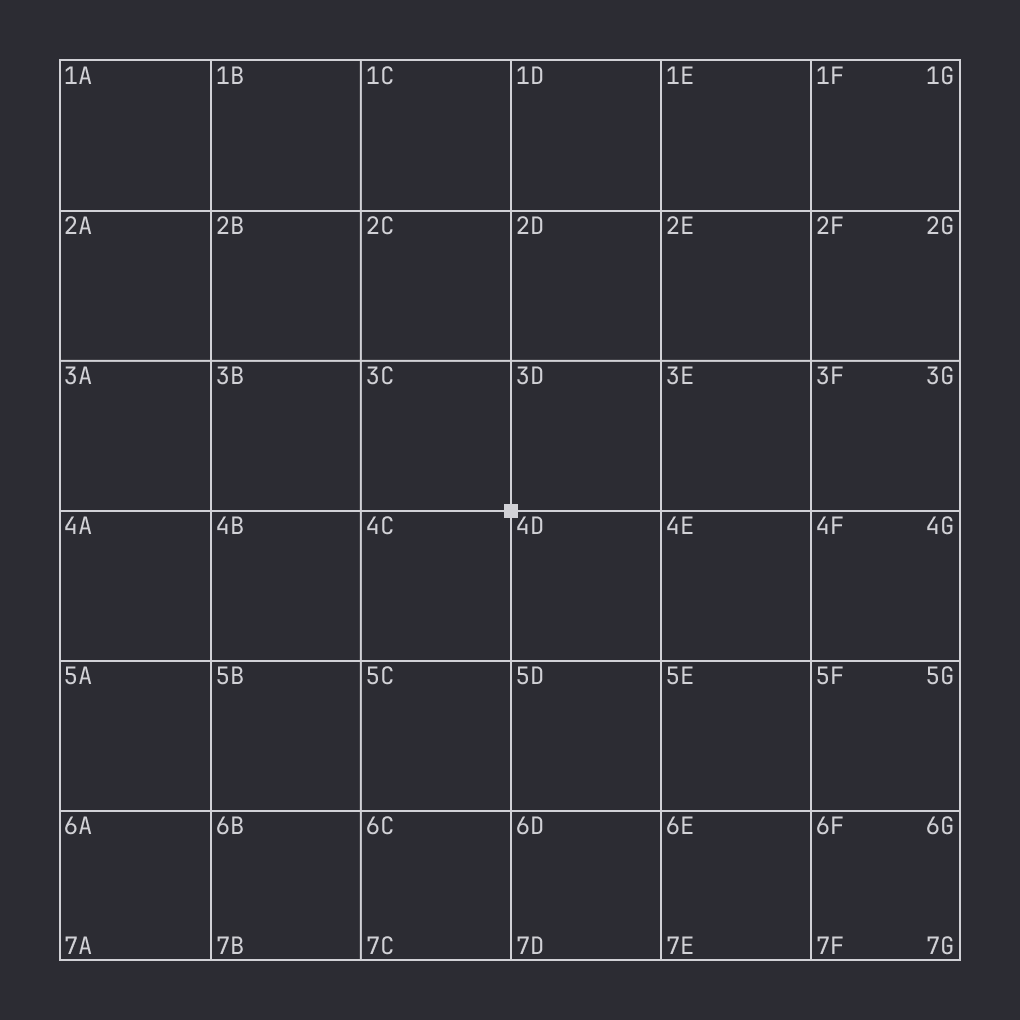
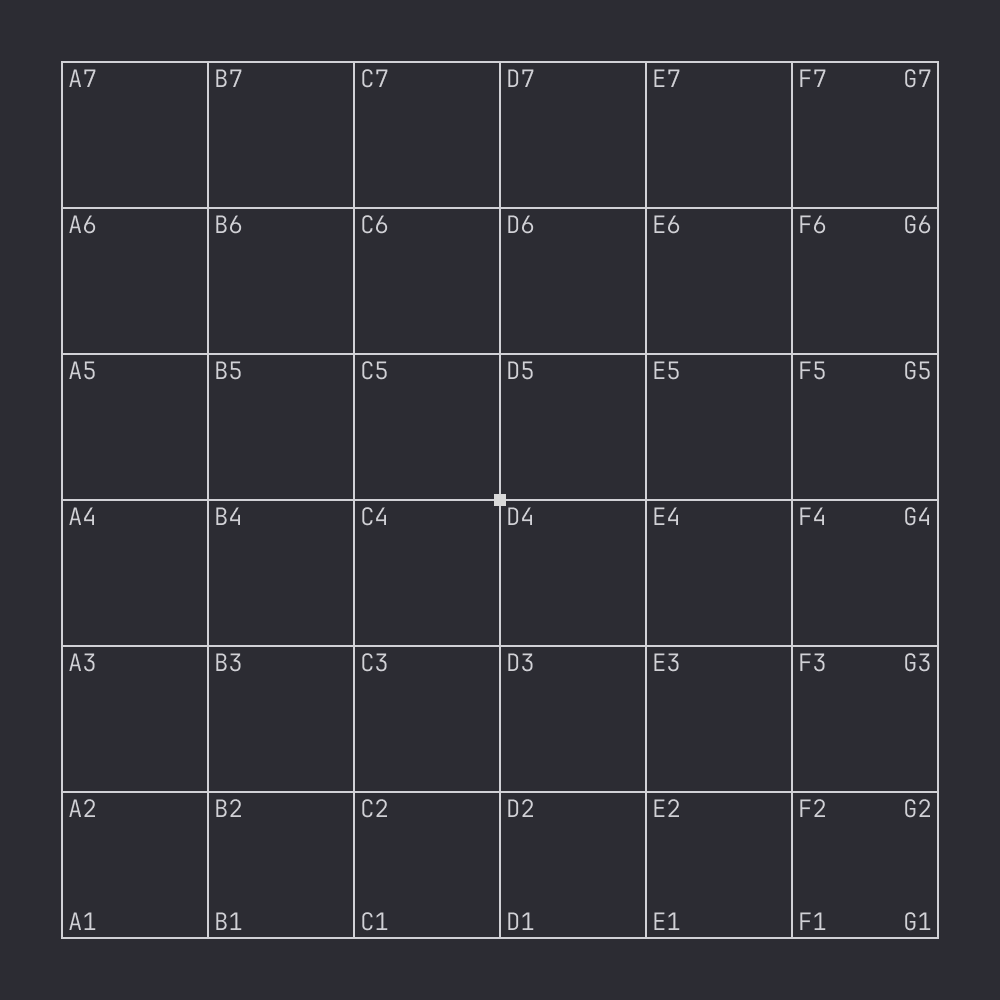
fix position mismatch, new themes

diff --git a/src/models/goban_theme.go b/src/models/goban_theme.go
@@ -1,12 +1,16 @@
 package models
 
 import (
+	"errors"
 	"image/color"
 )
 
 const (
 	light = 0
 	dark  = 1
+
+	woodLight = 2
+	woodDark  = 3
 )
 
 type GobanTheme struct {
@@ -21,33 +25,67 @@ type GobanTheme struct {
 	lastWhiteStoneFill color.Color
 }
 
-func (t *GobanTheme) GetFilePathName() string {
+func (t *GobanTheme) GetFilePathName() (string, error) {
 	switch t.id {
 	case light:
-		return "light"
+		return "light", nil
 	case dark:
-		return "dark"
+		return "dark", nil
+	case woodLight:
+		return "wood-light", nil
+	case woodDark:
+		return "wood-dark", nil
 	default:
-		return ""
+		return "", errors.New("invalid theme")
 	}
 }
 
 func NewLightGobanTheme() *GobanTheme {
 	return &GobanTheme{
-		id:               light,
+		id: light,
+
 		blackStoneFill:   color.RGBA{R: 0x2C, G: 0x2C, B: 0x33, A: 0xFF},
 		blackStoneStroke: color.RGBA{R: 0x2C, G: 0x2C, B: 0x33, A: 0xFF},
 		whiteStoneFill:   color.RGBA{R: 0xF3, G: 0xF3, B: 0xF3, A: 0xFF},
 		whiteStoneStroke: color.RGBA{R: 0x2C, G: 0x2C, B: 0x33, A: 0xFF},
 
-		lastBlackStoneFill: color.RGBA{R: 0x2C, G: 0x2C, B: 0x33, A: 0xFF},
-		lastWhiteStoneFill: color.RGBA{R: 0xF3, G: 0xF3, B: 0xF3, A: 0xFF},
+		lastBlackStoneFill: color.RGBA{R: 0xF3, G: 0xF3, B: 0xF3, A: 0xFF},
+		lastWhiteStoneFill: color.RGBA{R: 0x2C, G: 0x2C, B: 0x33, A: 0xFF},
 	}
 }
 
 func NewDarkGobanTheme() *GobanTheme {
 	return &GobanTheme{
-		id:               dark,
+		id: dark,
+
+		blackStoneFill:   color.RGBA{R: 0x20, G: 0x20, B: 0x24, A: 0xFF},
+		blackStoneStroke: color.RGBA{R: 0xF3, G: 0xF3, B: 0xF3, A: 0xFF},
+		whiteStoneFill:   color.RGBA{R: 0xD1, G: 0xD1, B: 0xD6, A: 0xFF},
+		whiteStoneStroke: color.RGBA{R: 0xD1, G: 0xD1, B: 0xD6, A: 0xFF},
+
+		lastBlackStoneFill: color.RGBA{R: 0xF3, G: 0xF3, B: 0xF3, A: 0xFF},
+		lastWhiteStoneFill: color.RGBA{R: 0x2C, G: 0x2C, B: 0x33, A: 0xFF},
+	}
+}
+
+func NewWoodLightGobanTheme() *GobanTheme {
+	return &GobanTheme{
+		id: woodLight,
+
+		blackStoneFill:   color.RGBA{R: 0x2C, G: 0x2C, B: 0x33, A: 0xFF},
+		blackStoneStroke: color.RGBA{R: 0x2C, G: 0x2C, B: 0x33, A: 0xFF},
+		whiteStoneFill:   color.RGBA{R: 0xF3, G: 0xF3, B: 0xF3, A: 0xFF},
+		whiteStoneStroke: color.RGBA{R: 0x2C, G: 0x2C, B: 0x33, A: 0xFF},
+
+		lastBlackStoneFill: color.RGBA{R: 0xF3, G: 0xF3, B: 0xF3, A: 0xFF},
+		lastWhiteStoneFill: color.RGBA{R: 0x2C, G: 0x2C, B: 0x33, A: 0xFF},
+	}
+}
+
+func NewWoodDarkGobanTheme() *GobanTheme {
+	return &GobanTheme{
+		id: woodDark,
+
 		blackStoneFill:   color.RGBA{R: 0x20, G: 0x20, B: 0x24, A: 0xFF},
 		blackStoneStroke: color.RGBA{R: 0xF3, G: 0xF3, B: 0xF3, A: 0xFF},
 		whiteStoneFill:   color.RGBA{R: 0xD1, G: 0xD1, B: 0xD6, A: 0xFF},

diff --git a/src/models/goban.go b/src/models/goban.go
@@ -25,8 +25,8 @@ const (
 	black = 1
 	white = 2
 
-	startSizePx     = 60
-	rectangleSizePx = 151
+	startSizePx     = 62
+	rectangleSizePx = 146
 	stoneRadPx      = 55
 	lastStoneRadPx  = 14
 )
@@ -153,8 +153,10 @@ func DrawCircle(img draw.Image, cx, cy, r int, col color.Color) {
 }
 
 func (g *Goban) loadBackground() (image.Image, error) {
+	filePathName, err := g.theme.GetFilePathName()
+
 	sourceImageFile, err := os.Open(
-		"media/gobans/" + strconv.Itoa(int(g.size)) + "-" + g.theme.GetFilePathName() + ".png",
+		"media/gobans/" + strconv.Itoa(int(g.size)) + "-" + filePathName + ".png",
 	)
 	if err != nil {
 		println(err.Error())
@@ -177,8 +179,10 @@ func (g *Goban) GetImage() **image.RGBA {
 				continue
 			}
 
-			jPosition := startSizePx + (j-1)*rectangleSizePx
-			iPosition := startSizePx + (i-1)*rectangleSizePx
+			jPosition := startSizePx + (j)*rectangleSizePx
+			iPosition := startSizePx + (i)*rectangleSizePx
+
+			println("i:", iPosition, "j:", jPosition)
 
 			if dot == black {
 				DrawCircle(
